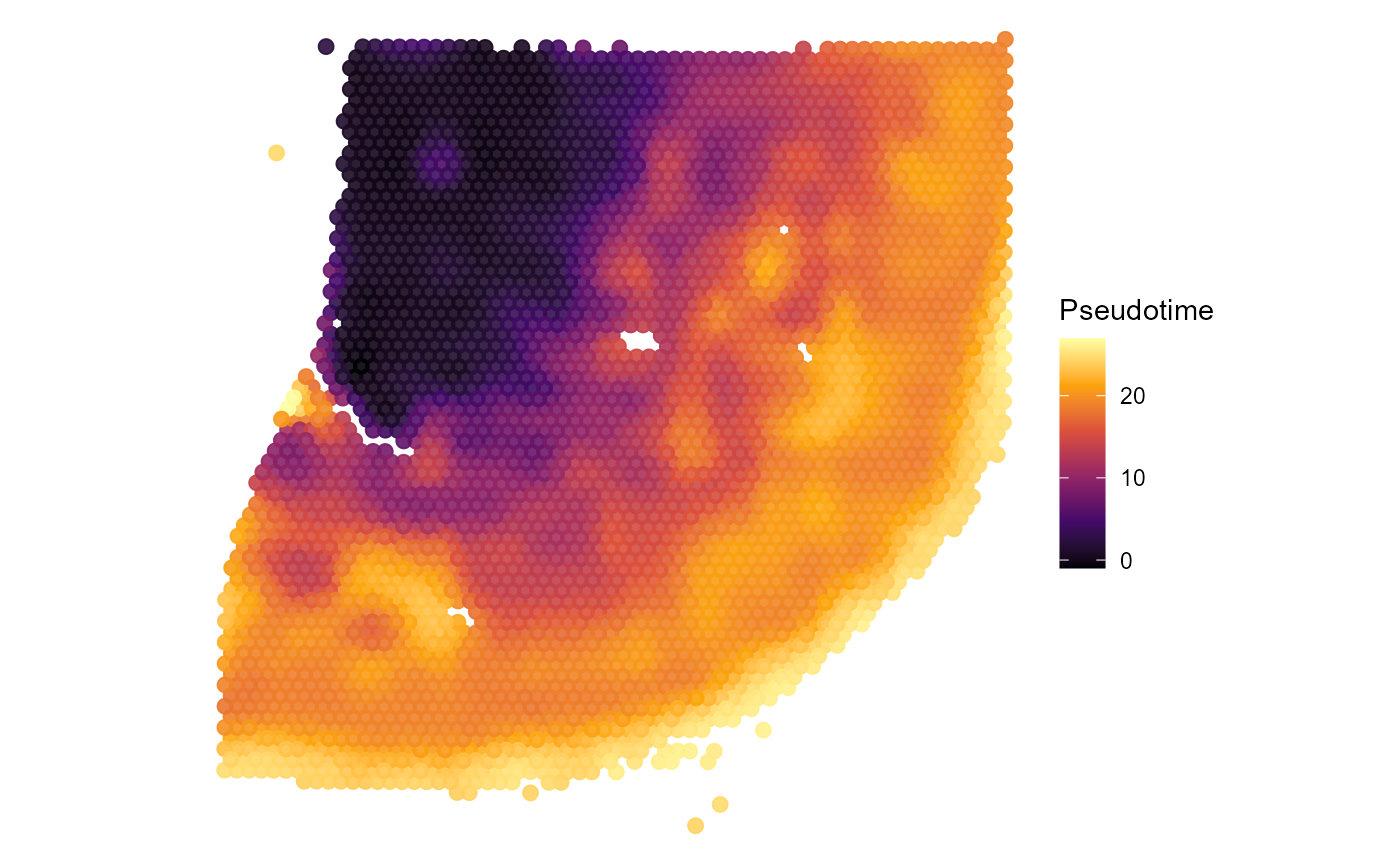
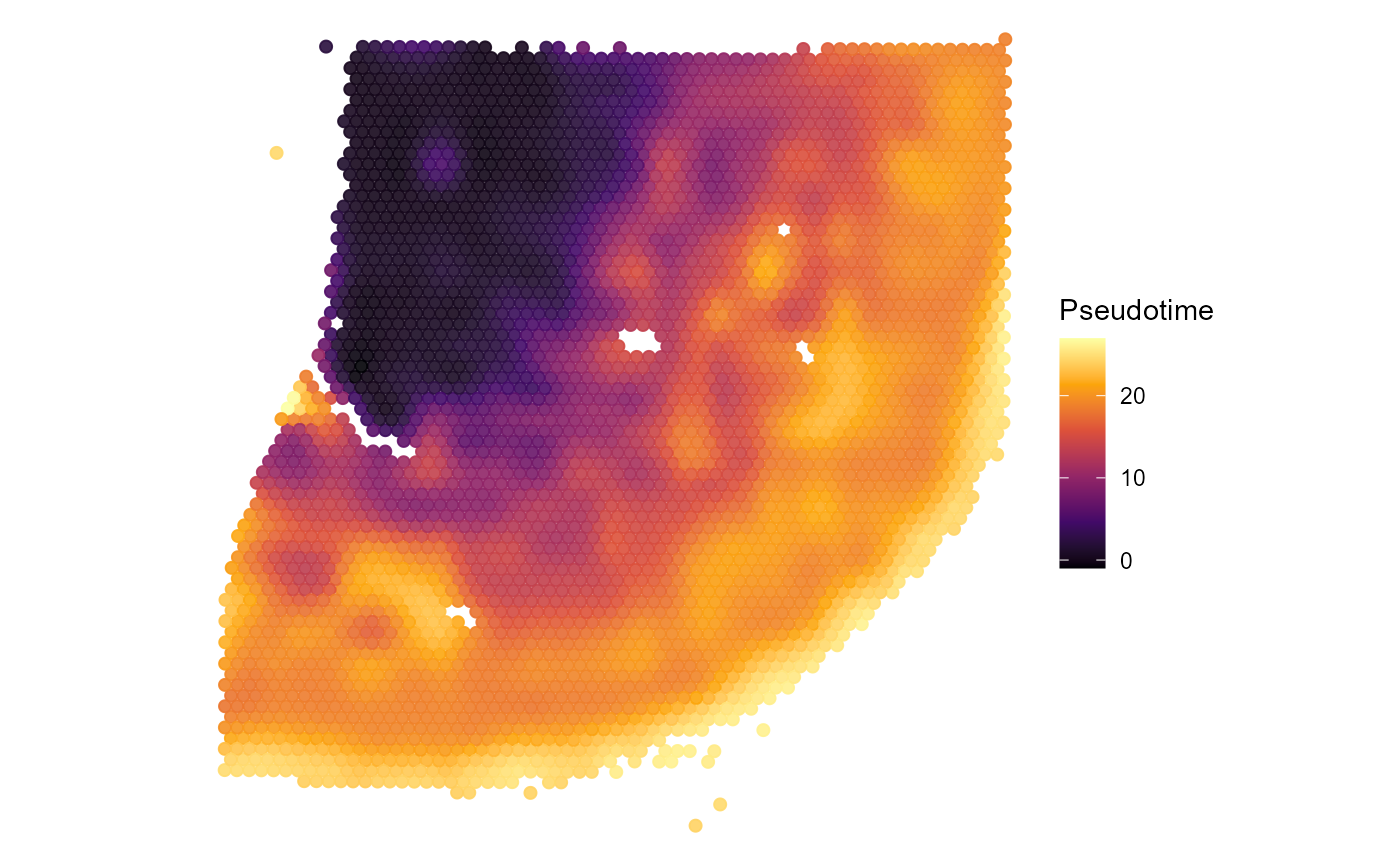
website fix 3

diff --git a/docs/articles/spata-v2-platform-compatibility.html b/docs/articles/spata-v2-platform-compatibility.html
@@ -174,7 +174,7 @@
 <span class="va">cortex_cds</span> <span class="op">&lt;-</span> <span class="fu"><a href="../reference/loadSpataObject.html">loadCorrespondingCDS</a></span><span class="op">(</span>object <span class="op">=</span> <span class="va">spata_obj</span><span class="op">)</span> </code></pre></div>
 <div class="sourceCode" id="cb8"><pre class="downlit sourceCode r">
 <code class="sourceCode R"><span class="va">spata_plot</span> <span class="op">&lt;-</span> 
-  <span class="fu"><a href="../reference/plotSurface.html">plotSurface</a></span><span class="op">(</span><span class="va">spata_obj</span>, color_by <span class="op">=</span> <span class="st">"seurat_clusters"</span>, pt_clrp <span class="op">=</span> <span class="st">"npg"</span><span class="op">)</span> <span class="op">+</span> 
+  <span class="fu"><a href="../reference/plotSurface.html">plotSurface</a></span><span class="op">(</span><span class="va">spata_obj</span>, color_by <span class="op">=</span> <span class="st">"seurat_clusters"</span>, pt_clrp <span class="op">=</span> <span class="st">"npg"</span>, pt_size <span class="op">=</span> <span class="fl">1.4</span><span class="op">)</span> <span class="op">+</span> 
       <span class="fu"><a href="../reference/legendBottom.html">legendBottom</a></span><span class="op">(</span><span class="op">)</span>
 
 
@@ -252,7 +252,7 @@ Figure 2.1 SPATA’s and monocle3’ basic plotting results
 <p>The feature <em>Pseudotime</em> is now a valid feature in our spata-object and thus accessible via all functions in <strong>SPATA2</strong> that take numeric features as an input option.</p>
 <div class="sourceCode" id="cb16"><pre class="downlit sourceCode r">
 <code class="sourceCode R"><span class="co"># visualize pseudotime on the surface</span>
-<span class="fu"><a href="../reference/plotSurface.html">plotSurface</a></span><span class="op">(</span><span class="va">spata_obj</span>, color_by <span class="op">=</span> <span class="st">"Pseudotime"</span>, smooth <span class="op">=</span> <span class="cn">TRUE</span>, smooth_span <span class="op">=</span> <span class="fl">0.2</span>, pt_size <span class="op">=</span> <span class="fl">2.3</span><span class="op">)</span> </code></pre></div>
+<span class="fu"><a href="../reference/plotSurface.html">plotSurface</a></span><span class="op">(</span><span class="va">spata_obj</span>, color_by <span class="op">=</span> <span class="st">"Pseudotime"</span>, smooth <span class="op">=</span> <span class="cn">TRUE</span>, smooth_span <span class="op">=</span> <span class="fl">0.2</span>, pt_size <span class="op">=</span> <span class="fl">1.8</span><span class="op">)</span> </code></pre></div>
 <div class="figure">
 <img src="spata-v2-platform-compatibility_files/figure-html/demonstrate-ptime-1.png" alt="Figure 3.2 Visualizing monocle3-pseudotime results with SPATA" width="100%"><p class="caption">
 Figure 3.2 Visualizing monocle3-pseudotime results with SPATA
